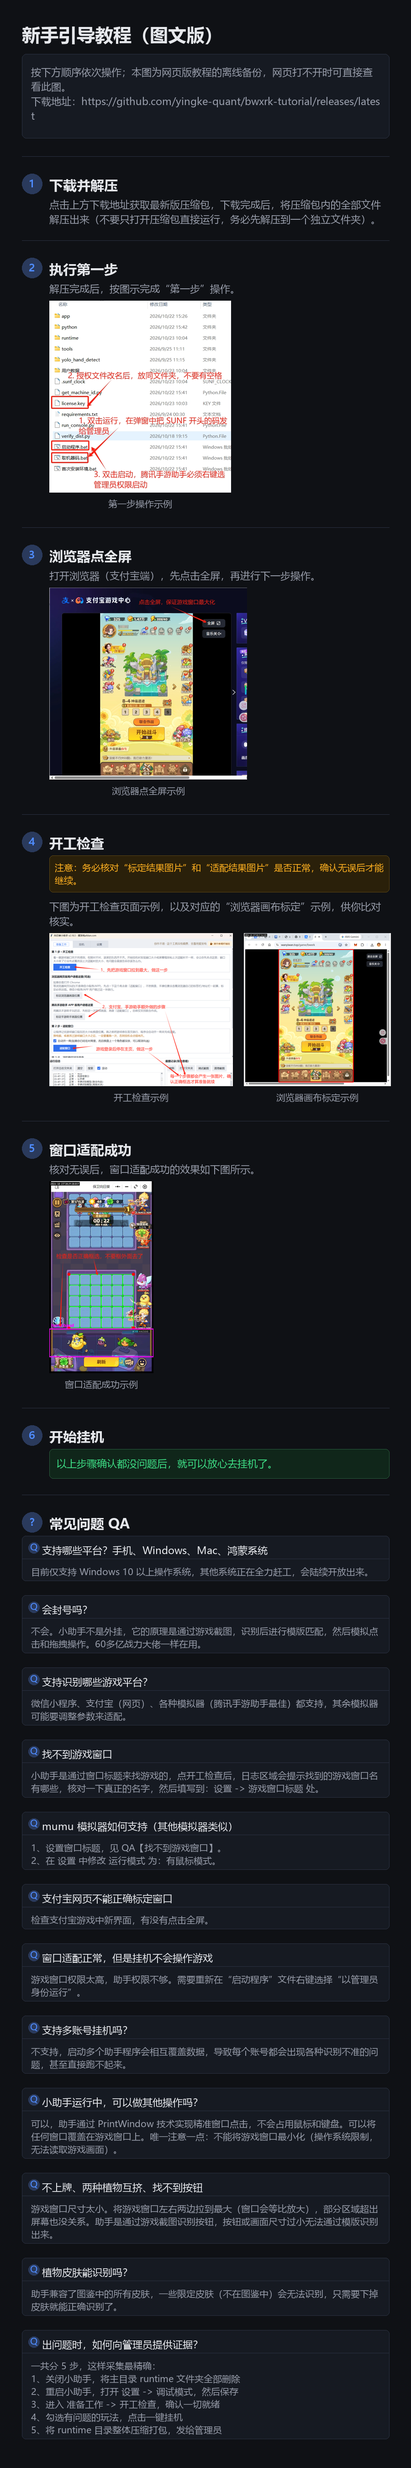
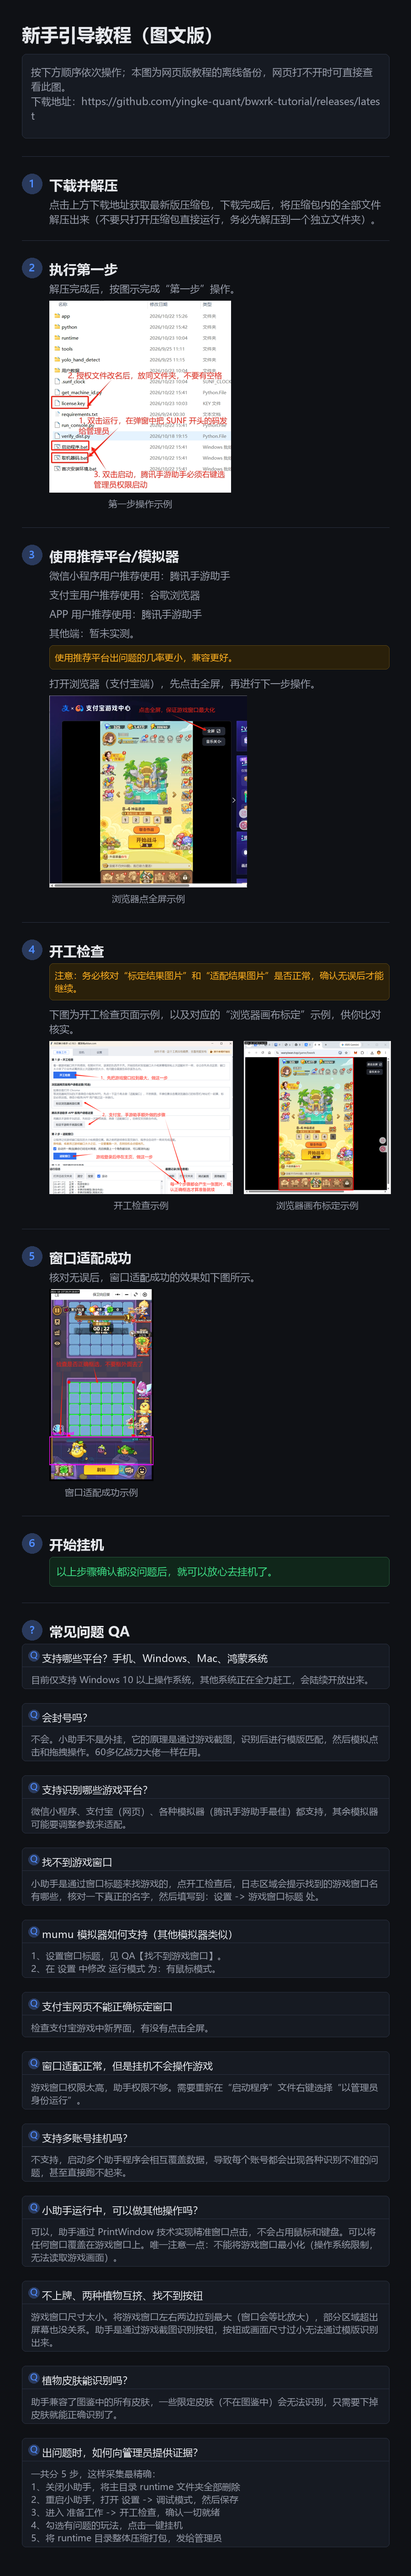
第 3 步「浏览器点全屏」改为「使用推荐平台/模拟器」(微信/APP 推荐腾讯手游助手，支付宝推荐谷歌浏览器)，重新生成长图

Changed region(s): [[0.0622, 0.0, 0.9644, 0.9954], [0.56, 0.0622, 0.9022, 0.0933], [0.84, 0.0, 0.9022, 0.0311]]

diff --git a/index.html b/index.html
@@ -245,7 +245,7 @@
     <h1>操作步骤</h1>
     <a href="#step1"><span class="num">1</span>下载并解压</a>
     <a href="#step2"><span class="num">2</span>执行第一步</a>
-    <a href="#step3"><span class="num">3</span>浏览器点全屏</a>
+    <a href="#step3"><span class="num">3</span>使用推荐平台/模拟器</a>
     <a href="#step4"><span class="num">4</span>开工检查</a>
     <a href="#step5"><span class="num">5</span>窗口适配成功</a>
     <a href="#step6"><span class="num">6</span>开始挂机</a>
@@ -280,8 +280,13 @@
     </section>
 
     <section class="step" id="step3">
-      <div class="step-head"><span class="badge">3</span><h3>浏览器点全屏</h3></div>
+      <div class="step-head"><span class="badge">3</span><h3>使用推荐平台/模拟器</h3></div>
       <div class="step-body">
+        <p>微信小程序用户推荐使用：<b>腾讯手游助手</b></p>
+        <p>支付宝用户推荐使用：<b>谷歌浏览器</b></p>
+        <p>APP 用户推荐使用：<b>腾讯手游助手</b></p>
+        <p>其他端：暂未实测。</p>
+        <div class="tip">使用推荐平台出问题的几率更小，兼容更好。</div>
         <p>打开浏览器（支付宝端），先点击全屏，再进行下一步操作。</p>
         <div class="shots">
           <figure class="shot-card">

diff --git a/scripts/build_long_image.py b/scripts/build_long_image.py
@@ -264,7 +264,12 @@ def main():
     c.add_images_row([(os.path.join(IMG_DIR, "第一步.png"), "第一步操作示例")])
     c.add_divider()
 
-    c.add_step_header(3, "浏览器点全屏")
+    c.add_step_header(3, "使用推荐平台/模拟器")
+    c.add_body_text("微信小程序用户推荐使用：腾讯手游助手")
+    c.add_body_text("支付宝用户推荐使用：谷歌浏览器")
+    c.add_body_text("APP 用户推荐使用：腾讯手游助手")
+    c.add_body_text("其他端：暂未实测。")
+    c.add_tip("使用推荐平台出问题的几率更小，兼容更好。")
     c.add_body_text("打开浏览器（支付宝端），先点击全屏，再进行下一步操作。")
     c.add_images_row([(os.path.join(IMG_DIR, "浏览器点全屏.png"), "浏览器点全屏示例")])
     c.add_divider()
